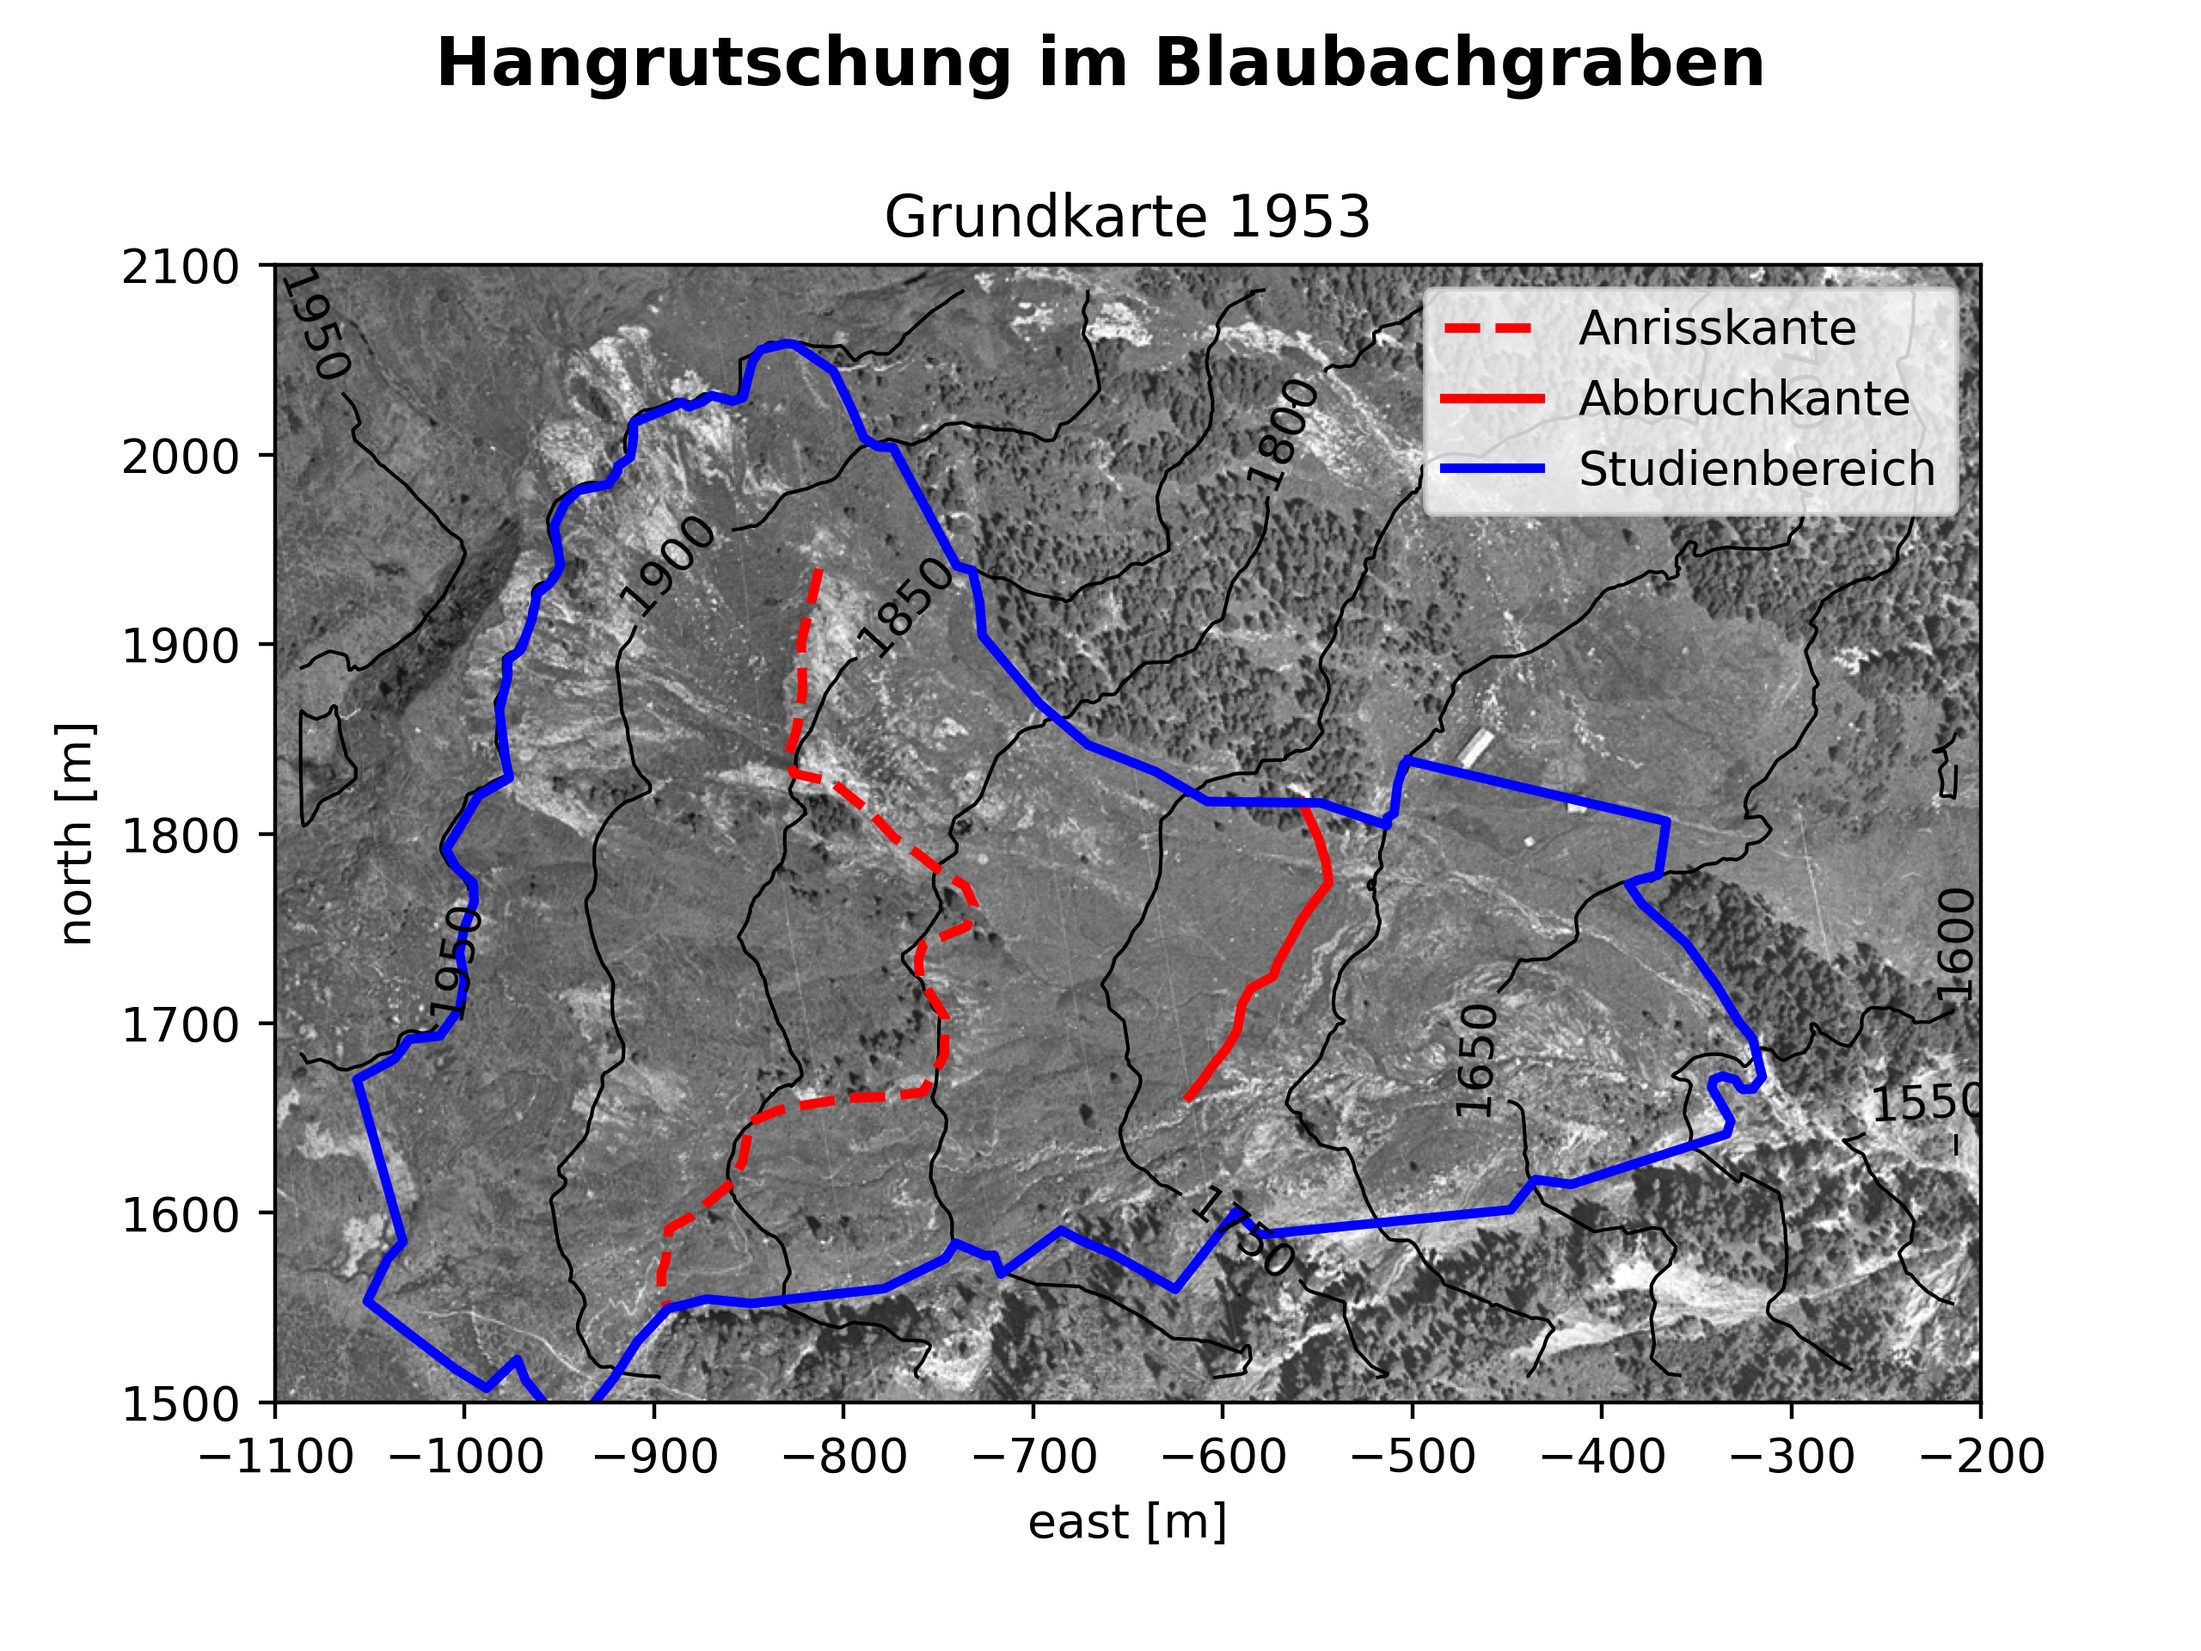
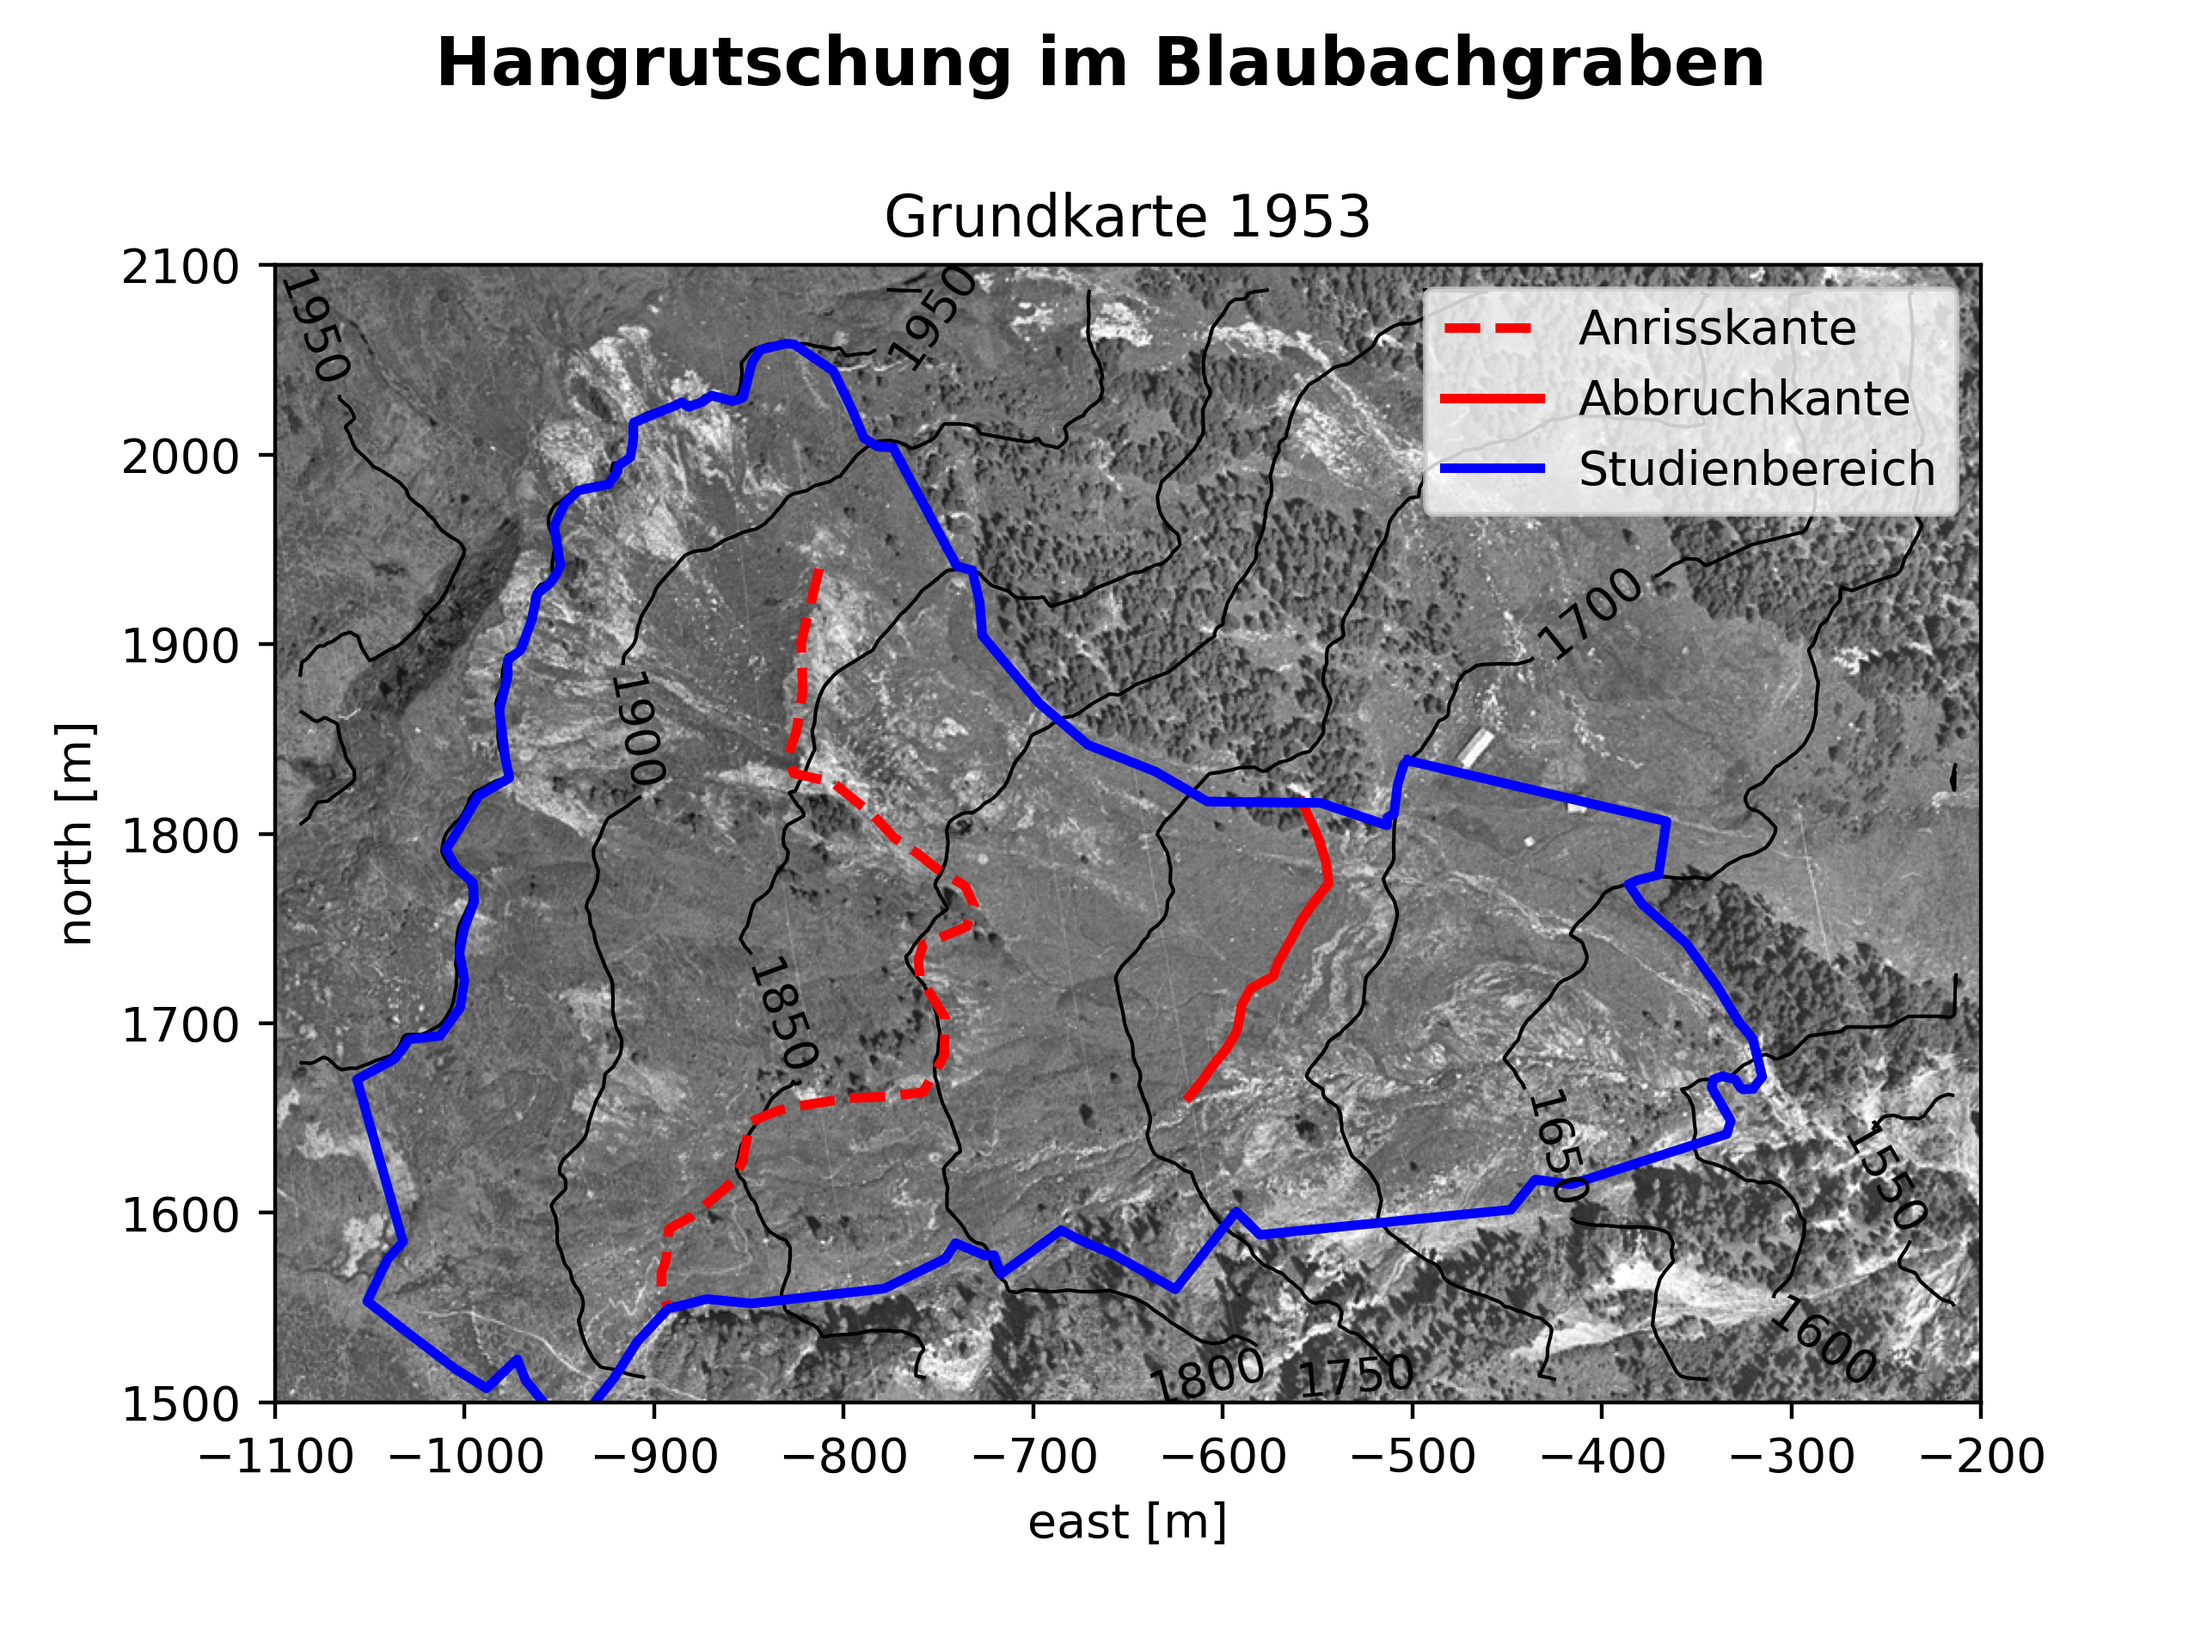
use proper height values in each plot

diff --git a/Informatik I/UE_Uebungsprogramm_WS2022/main.py b/Informatik I/UE_Uebungsprogramm_WS2022/main.py
@@ -1,3 +1,4 @@
+from typing import Optional, Tuple
 import matplotlib.colors
 import matplotlib.cm
 import matplotlib.path
@@ -108,6 +109,7 @@ def interpolate_grid(
 
 grid_z_1953 = interpolate_grid(surface_1953, "X[m]", "Y[m]", "Z[m]")
 grid_z_1999 = interpolate_grid(surface_1999, "X[m]", "Y[m]", "Z[m]")
+grid_z_2004 = interpolate_grid(surface_2004, "X1[m]", "Y1[m]", "Z1[m]")
 
 # Calculate the height difference between the measurements in 1953 and 1999.
 # This will be used for visualization later.
@@ -182,7 +184,7 @@ Base Map Generation
 """
 
 
-def create_basemap(title: str, ortho_image: np.ndarray):
+def create_basemap(title: str, ortho_image: np.ndarray, grid_z: np.ndarray):
     fig, ax = plt.subplots()
 
     fig.suptitle("Hangrutschung im Blaubachgraben", fontsize=14, fontweight="bold")
@@ -199,7 +201,7 @@ def create_basemap(title: str, ortho_image: np.ndarray):
     height_contours = ax.contour(
         grid_x,
         grid_y,
-        grid_z_1999,
+        grid_z,
         levels=np.arange(z_min, z_max, z_step),
         colors="black",
         linewidths=0.75,
@@ -249,13 +251,18 @@ Thematic Map Generation
 def create_colormap(
     title: str,
     ortho_image: np.ndarray,
+    grid_z: np.ndarray,
     grid_values: np.ndarray,
     grid_levels: np.ndarray,
     cmap,
     ax_label="$\Delta$H [m]",
     extend="neither",
 ):
-    fig = create_basemap(title, ortho_image)
+    fig = create_basemap(
+        title=title,
+        ortho_image=ortho_image,
+        grid_z=grid_z,
+    )
     ax = fig.axes[0]
 
     diff_colors = ax.contourf(
@@ -284,16 +291,17 @@ def create_colormap(
 def create_vectormap(
     title: str,
     ortho_image: np.ndarray,
+    grid_z: np.ndarray,
     grid_values: np.ndarray,
     grid_levels: np.ndarray,  # min, max, step
-    grid_vec_u: np.ndarray,
-    grid_vec_v: np.ndarray,
+    grid_vec: Tuple[np.ndarray, np.ndarray],
     cmap,
     ax_label="H [m]",
 ):
     fig = create_colormap(
         title=title,
         ortho_image=ortho_image,
+        grid_z=grid_z,
         grid_values=grid_values,
         grid_levels=grid_levels,
         cmap=cmap,
@@ -302,6 +310,7 @@ def create_vectormap(
     )
     ax = fig.axes[0]
 
+    grid_vec_u, grid_vec_v = grid_vec
     grid_vec_u = np.ma.masked_array(grid_vec_u, mask=region_mask)
     grid_vec_v = np.ma.masked_array(grid_vec_v, mask=region_mask)
 
@@ -325,21 +334,25 @@ def create_vectormap(
 create_basemap(
     title="Grundkarte 1953",
     ortho_image=ortho_img_1953,
+    grid_z=grid_z_1953,
 ).savefig("Plot1_Grundkarte_1953.png", dpi=400)
 
 create_basemap(
     title="Grundkarte 1999",
     ortho_image=ortho_img_1999,
+    grid_z=grid_z_1999,
 ).savefig("Plot1_Grundkarte_1999.png", dpi=400)
 
 create_basemap(
     title="Grundkarte 2004",
     ortho_image=ortho_img_2004,
+    grid_z=grid_z_2004,
 ).savefig("Plot1_Grundkarte_2004.png", dpi=400)
 
 create_colormap(
     title="Differenz der Geländeoberflächen\n1953 - 1999",
     ortho_image=ortho_img_1953,
+    grid_z=grid_z_1999,
     grid_values=grid_z_diff_1999,
     grid_levels=np.arange(-5, 17, 1),
     cmap=create_diff_colormap(-5, 17),
@@ -348,6 +361,7 @@ create_colormap(
 create_colormap(
     title="Höhenänderung der Geländeoberflächen\n1999 - 2004",
     ortho_image=ortho_img_1999,
+    grid_z=grid_z_2004,
     grid_values=grid_z_diff_2004,
     grid_levels=np.arange(-6, 6, 1),
     cmap=create_diff_colormap(-6, 6),
@@ -357,8 +371,8 @@ create_colormap(
 create_vectormap(
     title="Mittlere jährliche Horizontalverschiebung\n1999 - 2004",
     ortho_image=ortho_img_1999,
-    grid_vec_u=grid_vec_u_2004,
-    grid_vec_v=grid_vec_v_2004,
+    grid_z=grid_z_2004,
+    grid_vec=(grid_vec_u_2004, grid_vec_v_2004),
     grid_values=grid_xy_diff_2004,
     grid_levels=np.arange(0, 180, 10),
     ax_label="$\Delta$xy [cm]",
